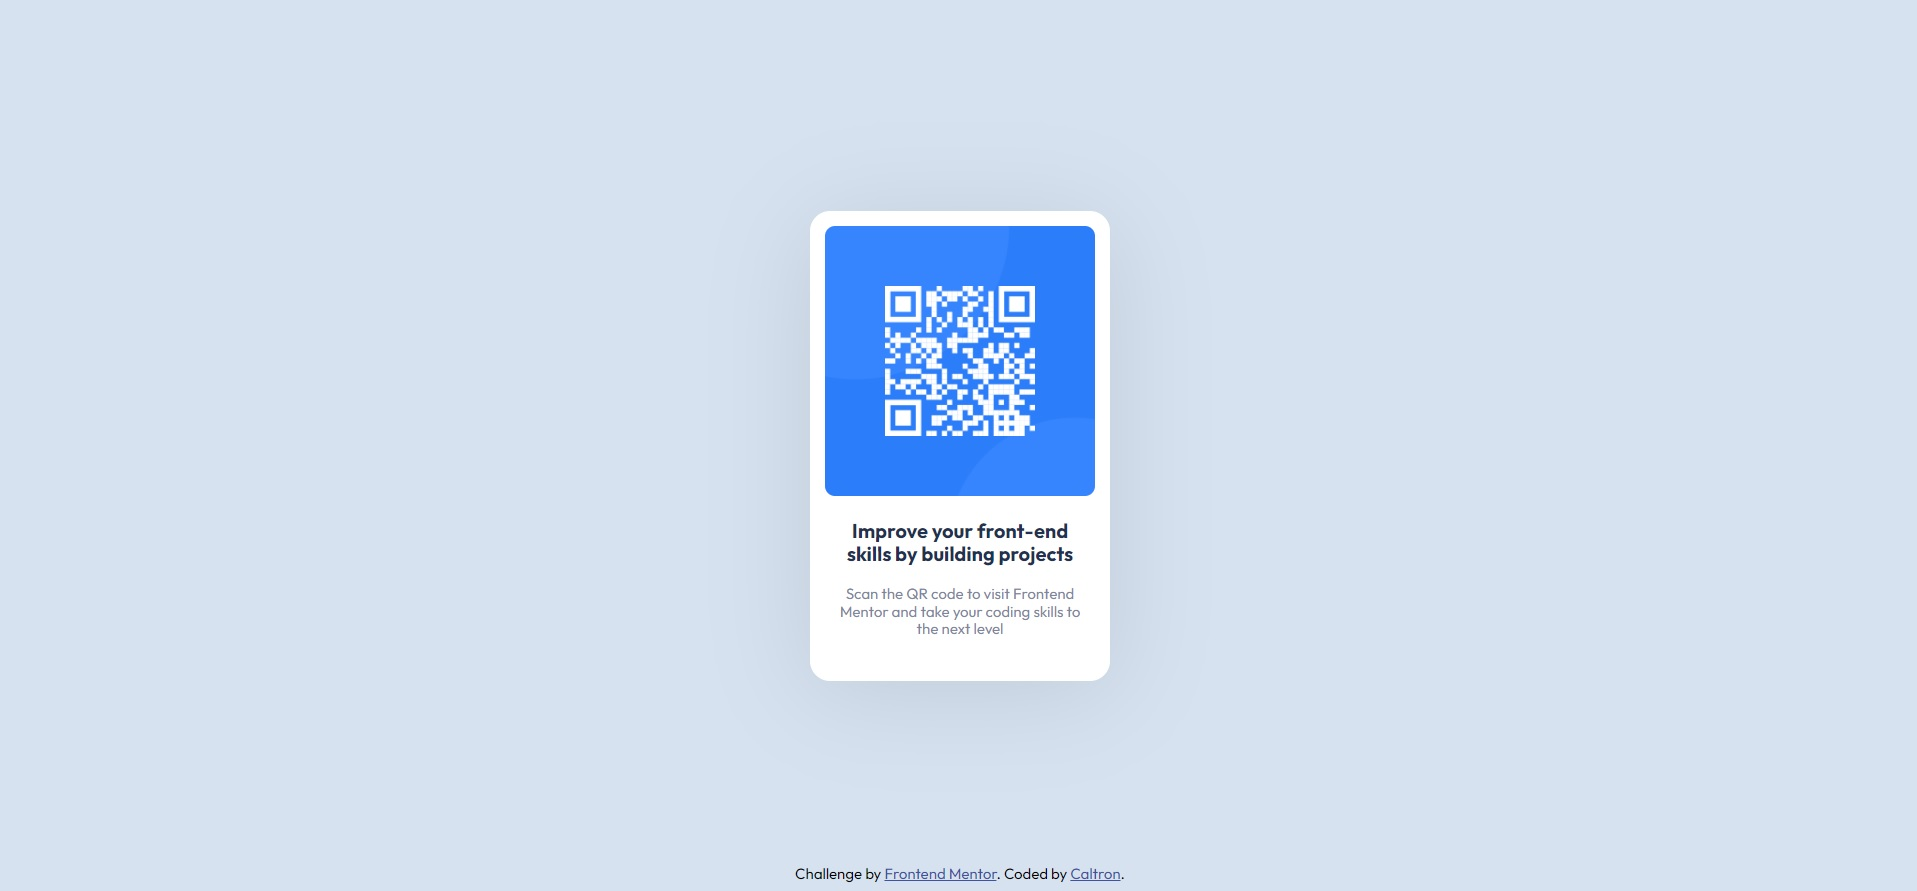
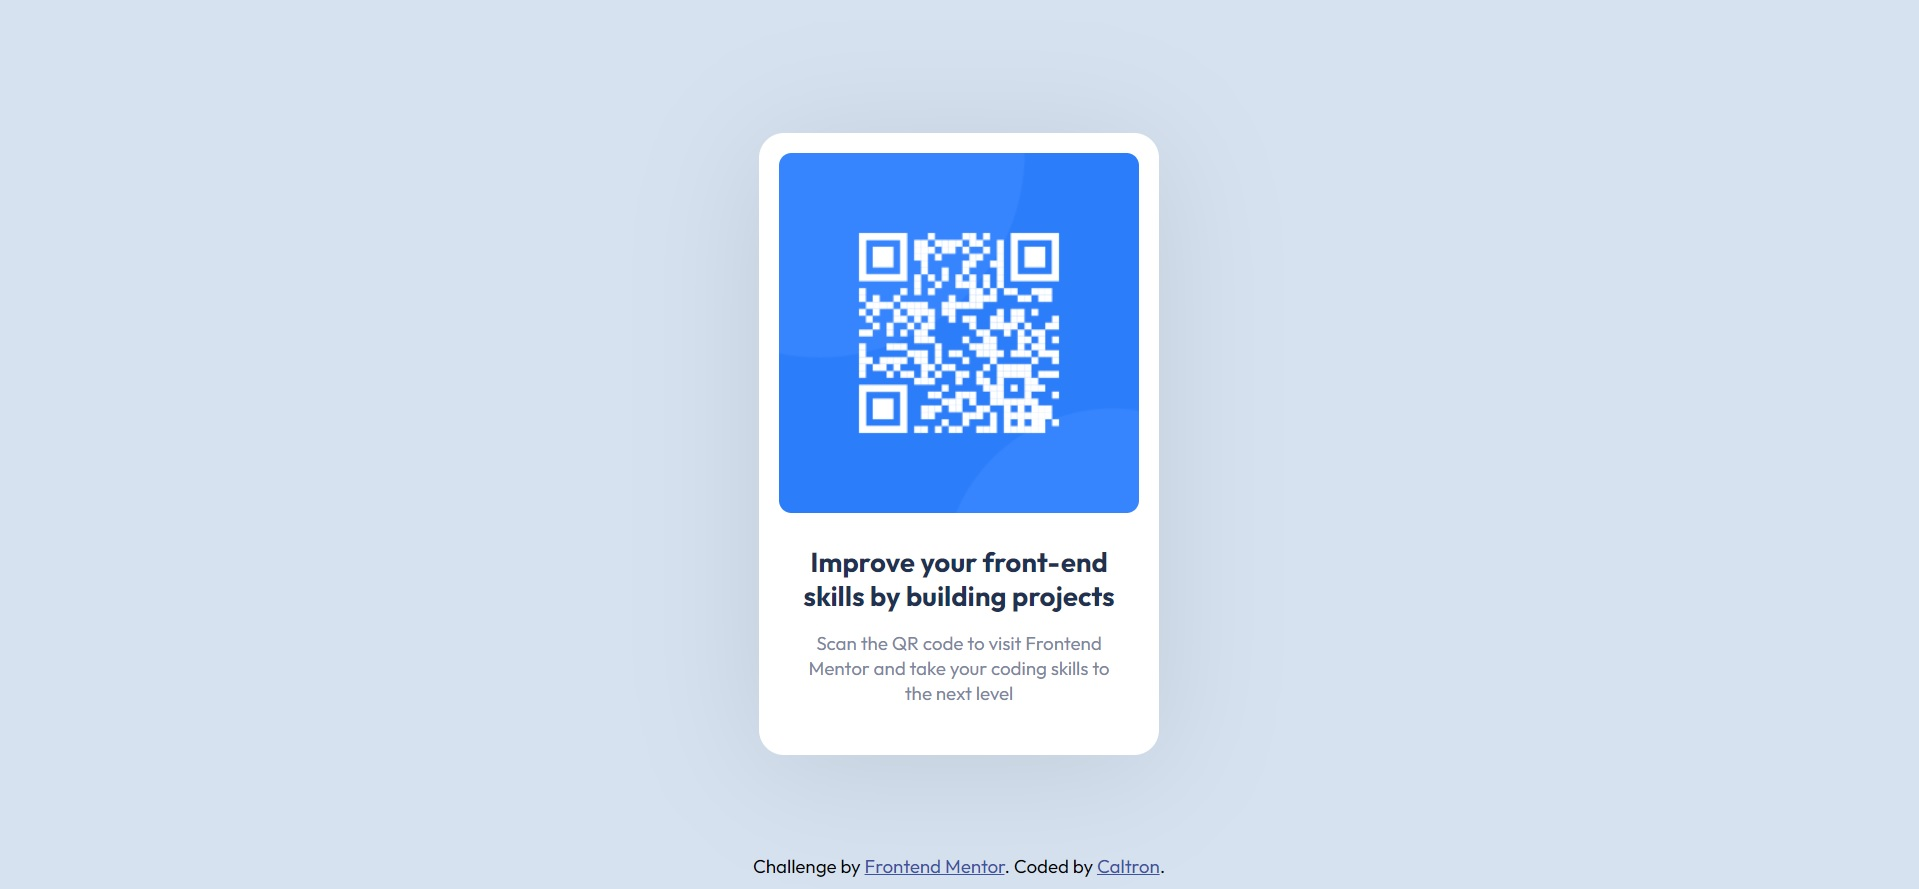
SS and Attribution Update

Changed region(s): [[0.3693, 0.1519, 0.6155, 0.8504], [0.4001, 0.9719, 0.6155, 1.0]]

diff --git a/index.html b/index.html
@@ -7,7 +7,7 @@
     <link rel="preconnect" href="https://fonts.googleapis.com" />
     <link rel="preconnect" href="https://fonts.gstatic.com" crossorigin />
     <link href="https://fonts.googleapis.com/css2?family=Outfit:wght@400;700&display=swap" rel="stylesheet" />
-    <title>Frontend Mentor | QR code component by Caltron</title>
+    <title>QR code component by Caltron</title>
     <link rel="stylesheet" href="css/normalize.css" />
     <link rel="stylesheet" href="/css/styles.css" />
   </head>
@@ -24,7 +24,7 @@
     <!-- Attribution -->
     <div class="attribution">
       Challenge by <a href="https://www.frontendmentor.io?ref=challenge" target="_blank">Frontend Mentor</a>. Coded by
-      <a href="#">Caltron</a>.
+      <a href="https://github.com/caltron-xo" target="_blank">Caltron</a>.
     </div>
   </body>
 </html>
